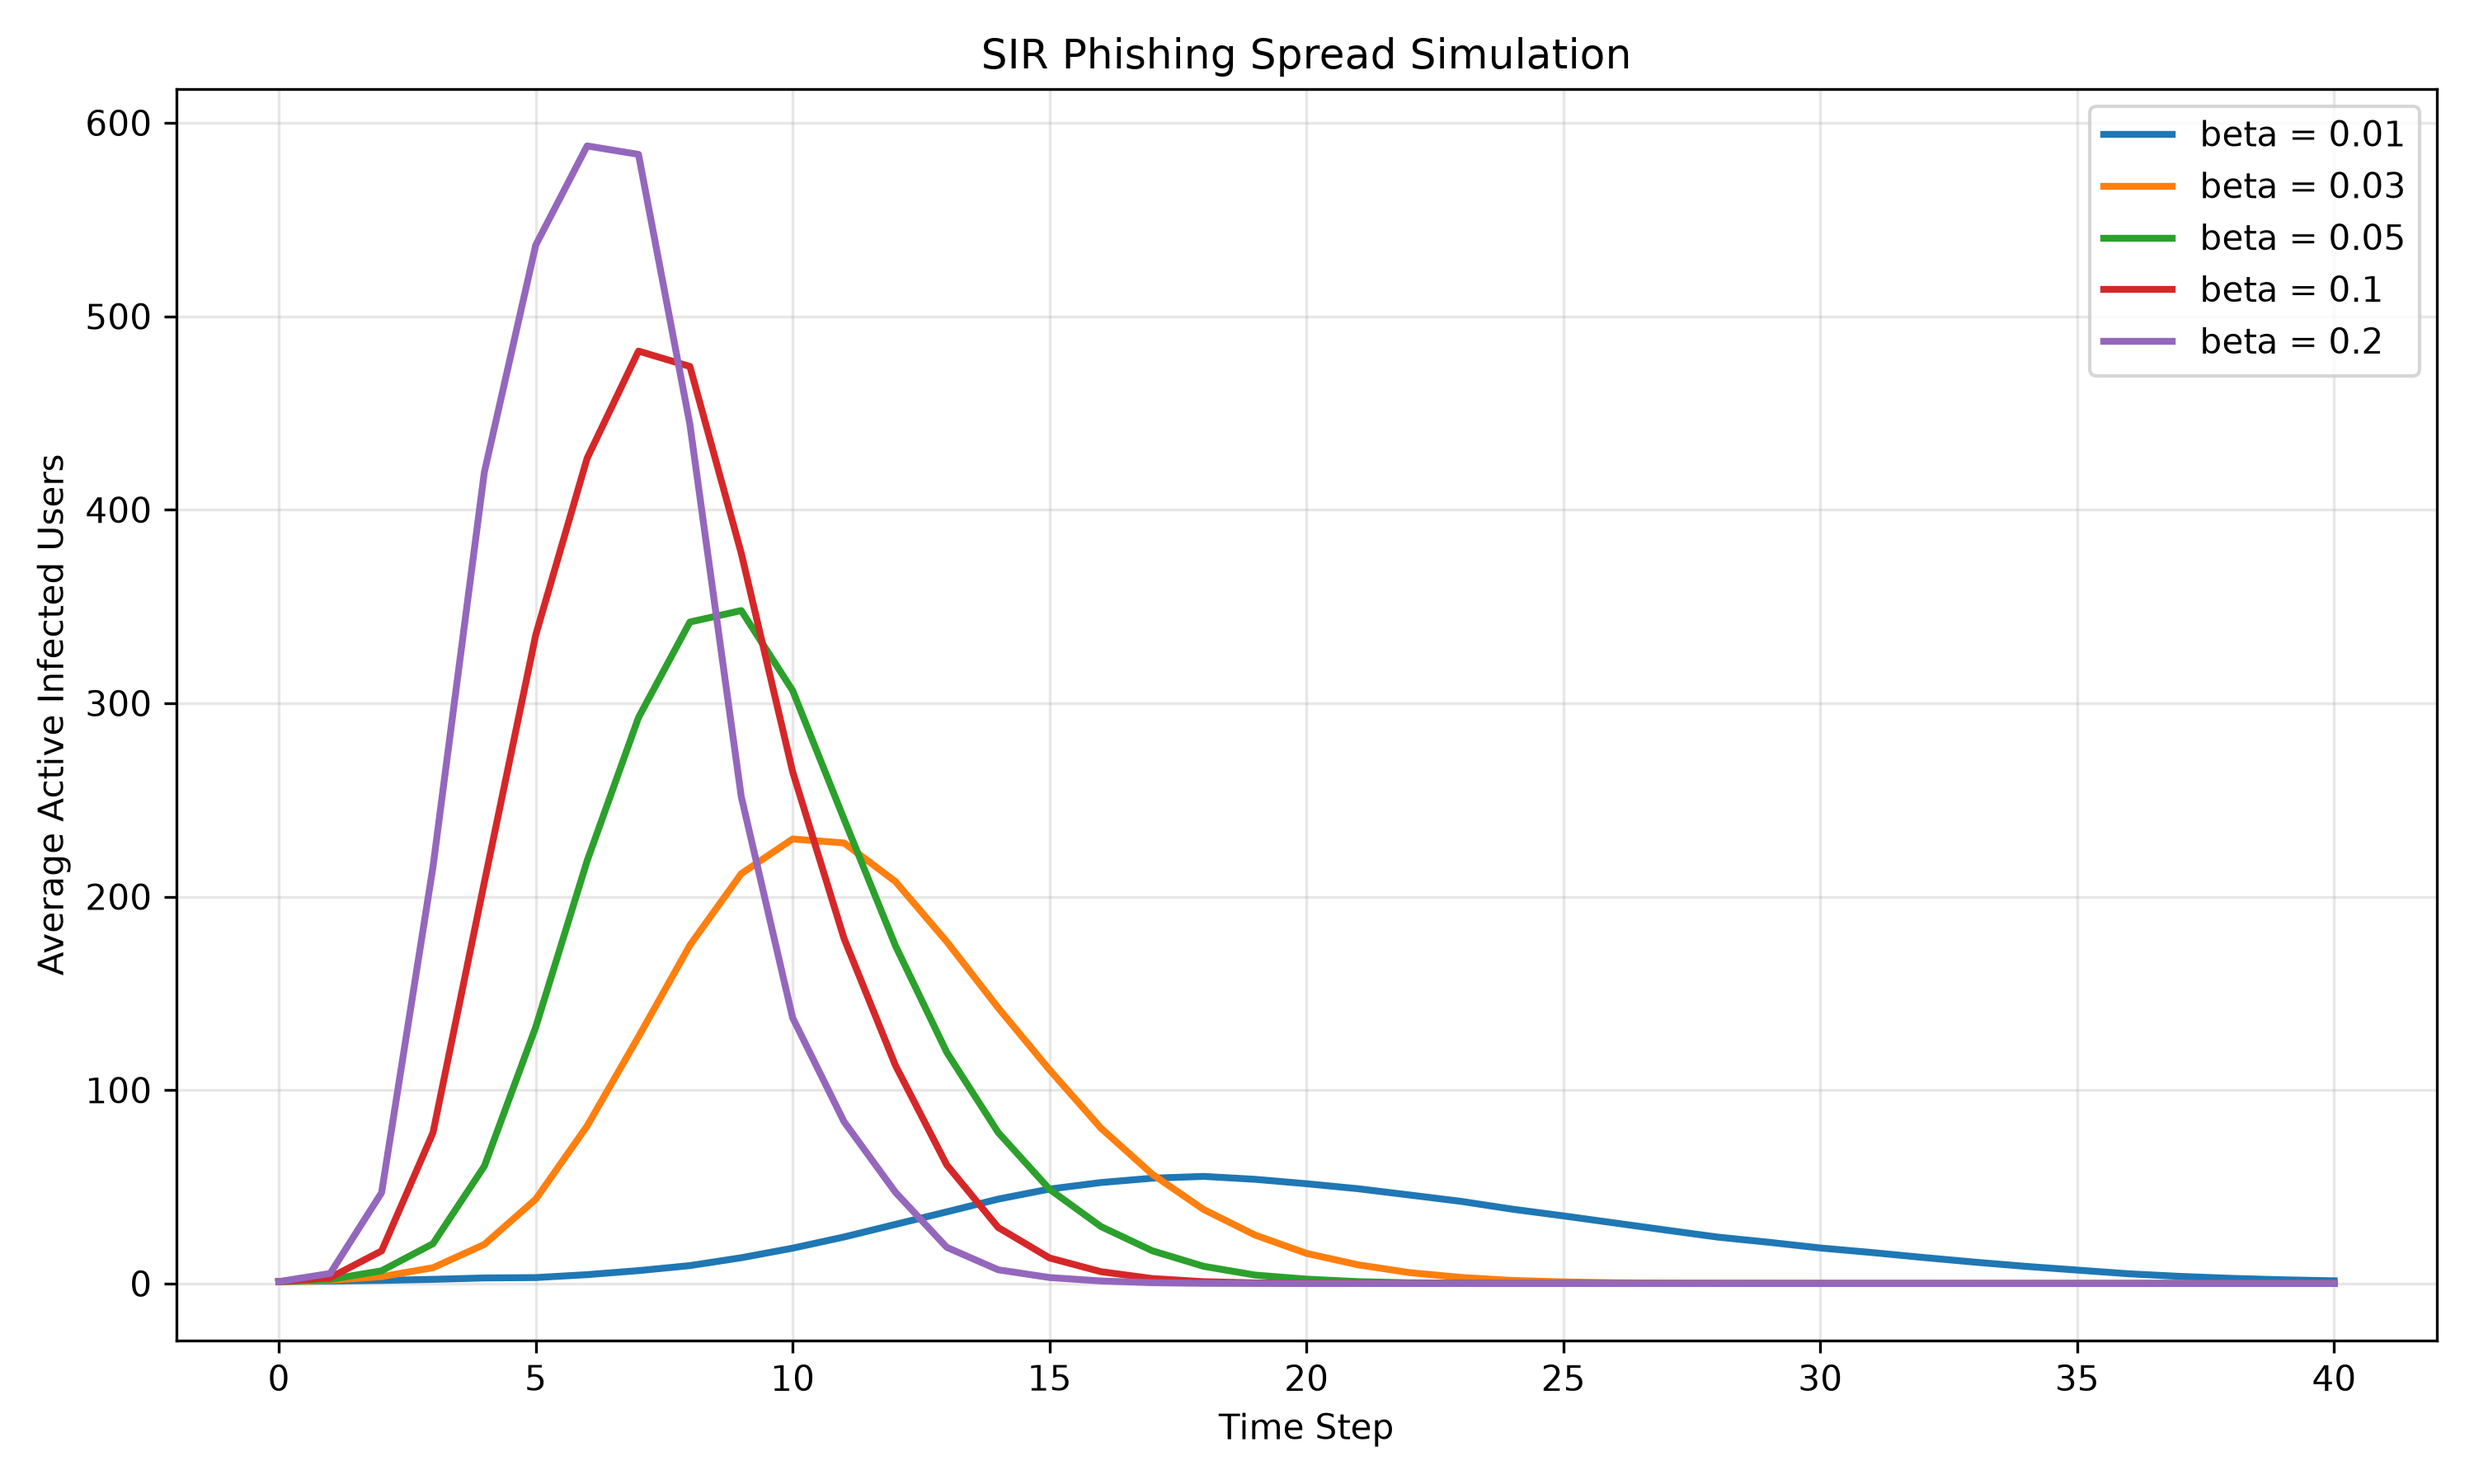
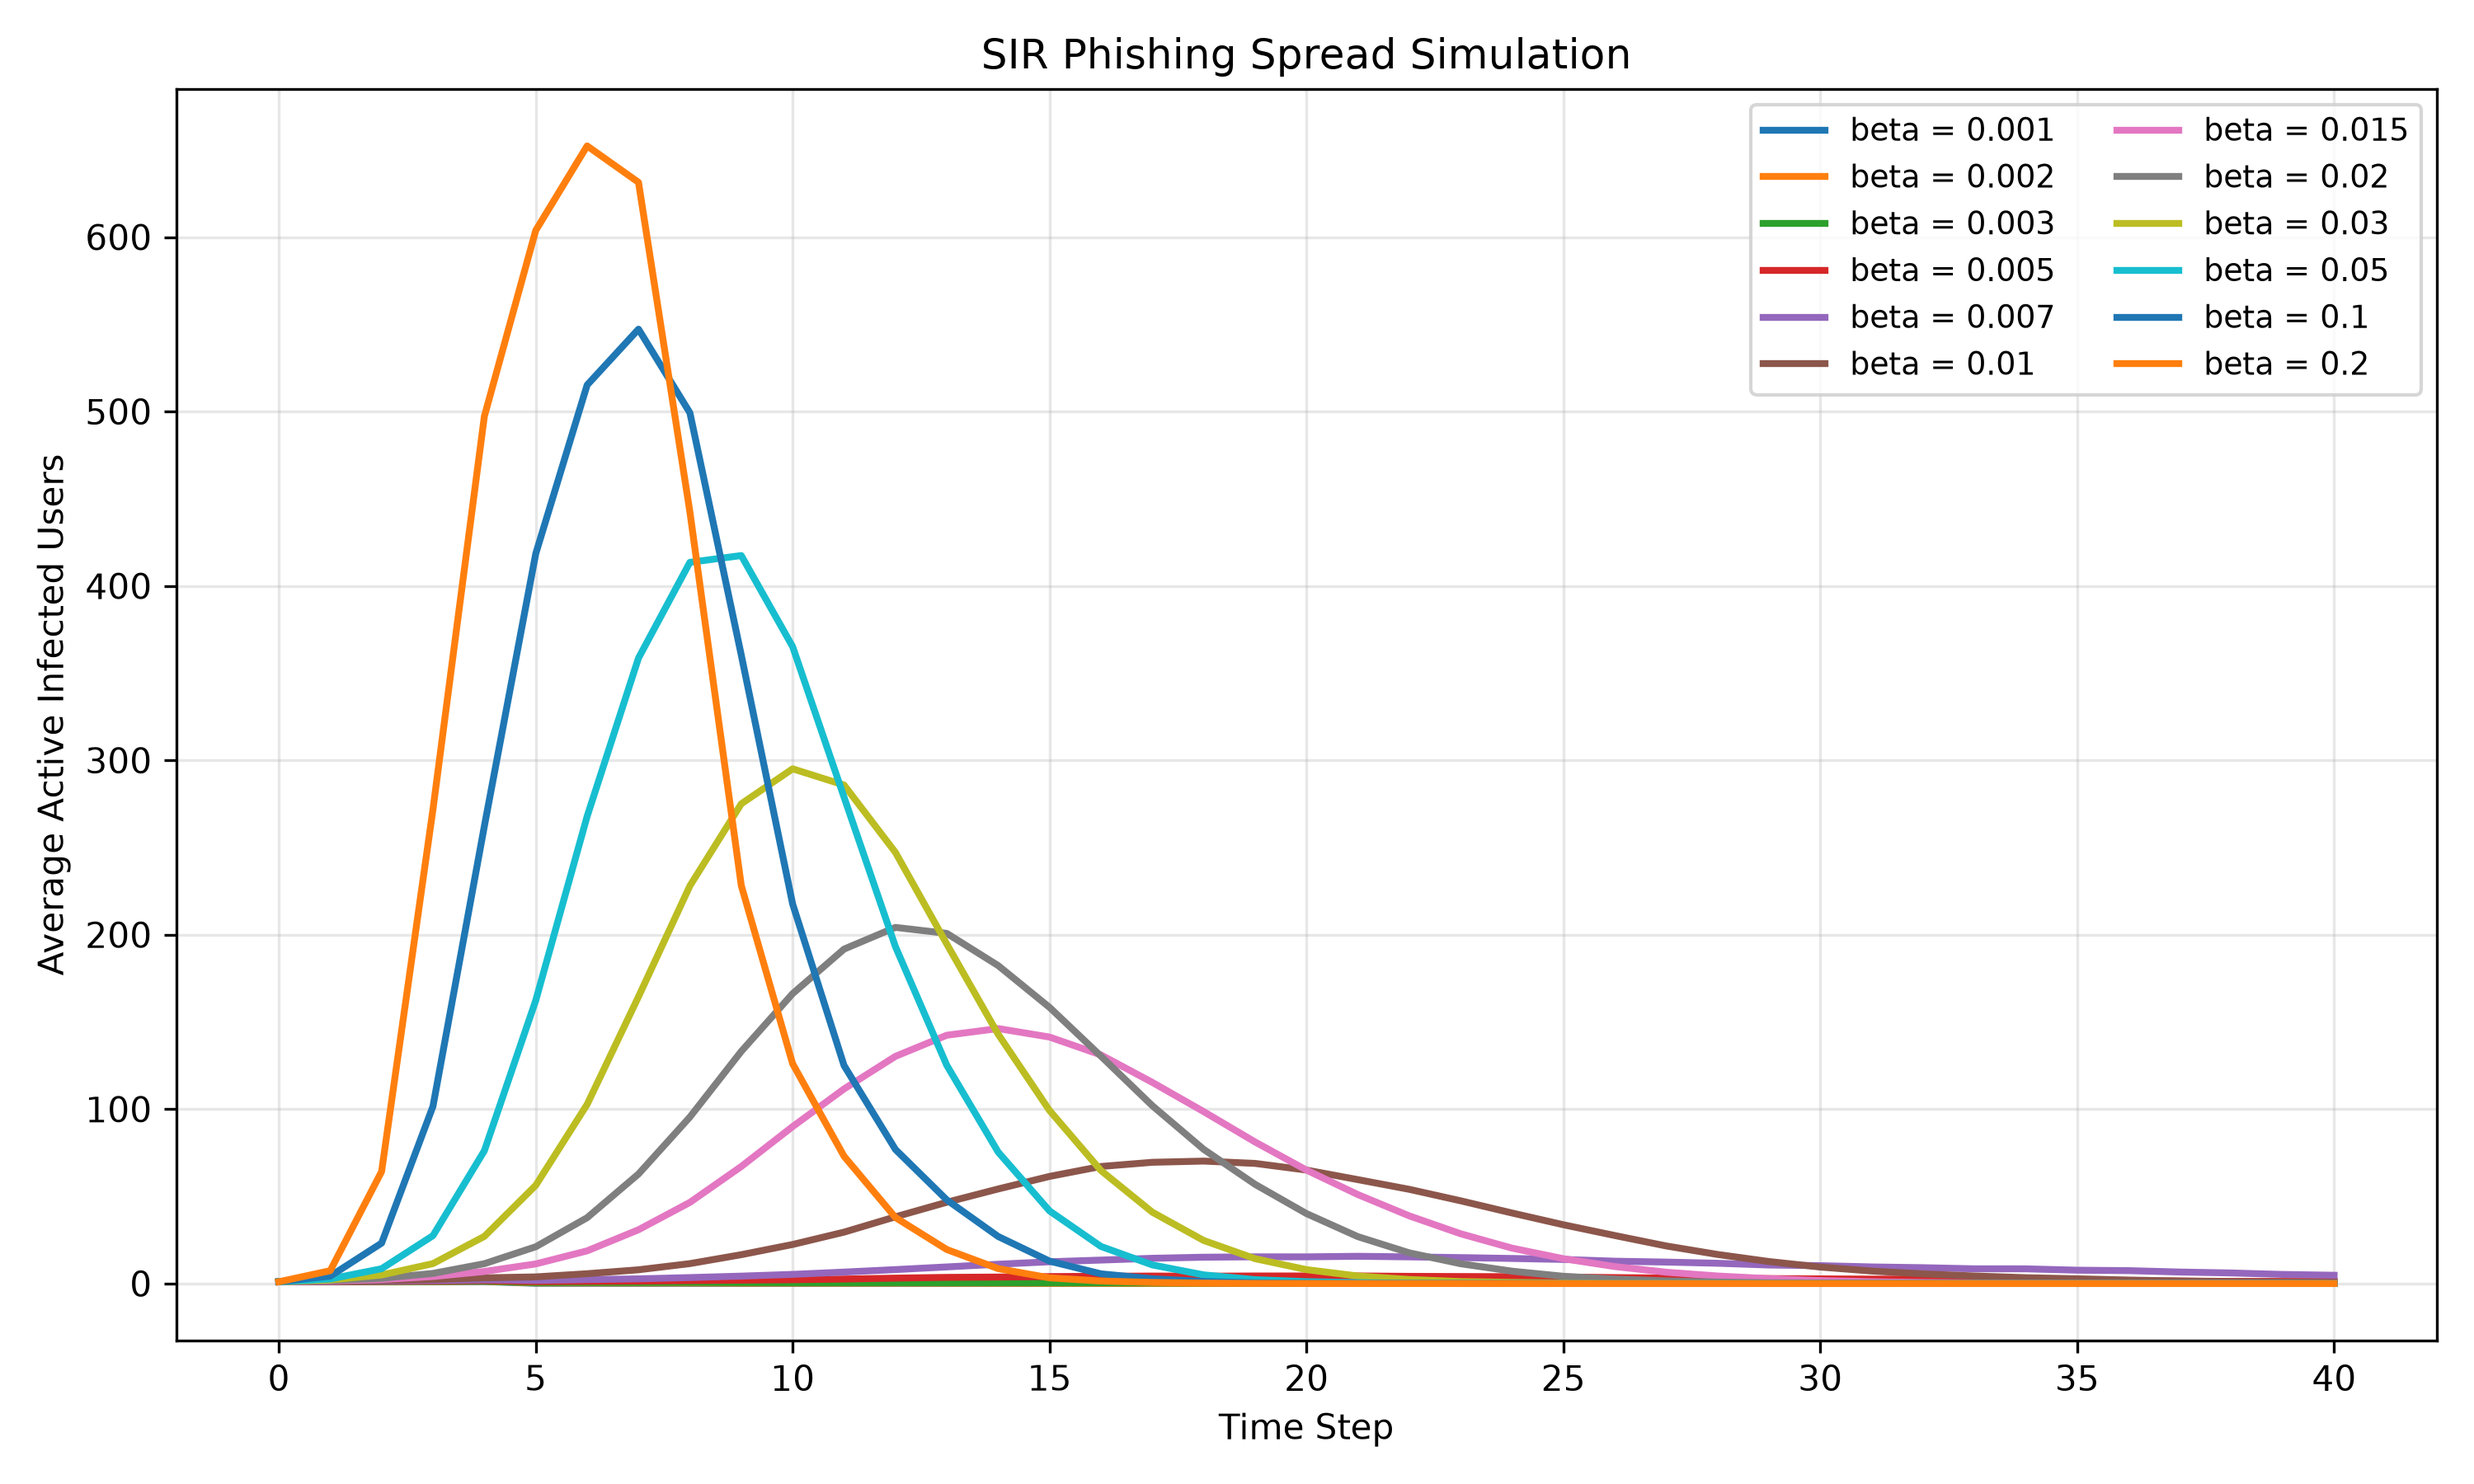
improve sir and sis simulations

diff --git a/src/sir_sis.py b/src/sir_sis.py
@@ -14,7 +14,10 @@ OUTPUT = ROOT / "analysis" / "figures"
 
 
 # Simulation settings
-BETAS = [0.01, 0.03, 0.05, 0.10, 0.20]
+BETAS = [
+    0.001, 0.002, 0.003, 0.005, 0.007,
+    0.01, 0.015, 0.02, 0.03, 0.05, 0.10, 0.20
+]
 TAU = 5
 STEPS = 40
 RUNS = 100
@@ -41,7 +44,7 @@ def simulate(G, model="SIR", beta=0.1, tau=5,
     if not immune.issubset(nodes):
         raise ValueError("Unknown immune nodes")
 
-    available = list(nodes - immune)
+    available = sorted(nodes - immune, key=str)
 
     if not available:
         raise ValueError("No available nodes")
@@ -169,7 +172,7 @@ def run_experiments(G, model):
         }
 
         print(
-            f"beta={beta:.2f} | "
+            f"beta={beta:.3f} | "
             f"mean reached={results[beta]['mean_size']:.1f} | "
             f"large outbreak probability="
             f"{results[beta]['large_outbreak_probability']:.2f}"
@@ -194,7 +197,7 @@ def plot_curves(results, model):
     plt.xlabel("Time Step")
     plt.ylabel("Average Active Infected Users")
     plt.title(f"{model} Phishing Spread Simulation")
-    plt.legend()
+    plt.legend(ncol=2, fontsize=9)
     plt.grid(alpha=0.3)
     plt.tight_layout()
 
@@ -241,20 +244,139 @@ def plot_comparison(sir_results, sis_results, beta=0.10):
     print("Saved:", OUTPUT / "sir_vs_sis.png")
 
 
+# Compare the average number of users reached
+def plot_mean_reached(sir_results, sis_results):
+
+    betas = list(sir_results.keys())
+
+    sir_means = [
+        sir_results[beta]["mean_size"]
+        for beta in betas
+    ]
+
+    sis_means = [
+        sis_results[beta]["mean_size"]
+        for beta in betas
+    ]
+
+    plt.figure(figsize=(10, 6))
+
+    plt.plot(
+        betas,
+        sir_means,
+        marker="o",
+        label="SIR",
+        linewidth=2
+    )
+
+    plt.plot(
+        betas,
+        sis_means,
+        marker="s",
+        label="SIS",
+        linewidth=2
+    )
+
+    plt.xlabel("Transmission Probability (Beta)")
+    plt.ylabel("Mean Unique Users Reached")
+    plt.title("SIR vs SIS: Mean Users Reached")
+    plt.xscale("log")
+    plt.legend()
+    plt.grid(alpha=0.3)
+    plt.tight_layout()
+
+    plt.savefig(
+        OUTPUT / "mean_reached_comparison.png",
+        dpi=300
+    )
+    plt.close()
+
+    print("Saved:", OUTPUT / "mean_reached_comparison.png")
+
+
+# Plot large outbreak probability for different beta values
+def plot_outbreak_probability(sir_results, sis_results):
+
+    betas = list(sir_results.keys())
+
+    sir_probs = [
+        sir_results[beta]["large_outbreak_probability"]
+        for beta in betas
+    ]
+
+    sis_probs = [
+        sis_results[beta]["large_outbreak_probability"]
+        for beta in betas
+    ]
+
+    plt.figure(figsize=(10, 6))
+
+    plt.plot(
+        betas,
+        sir_probs,
+        marker="o",
+        label="SIR",
+        linewidth=2
+    )
+
+    plt.plot(
+        betas,
+        sis_probs,
+        marker="s",
+        linestyle="--",
+        label="SIS",
+        linewidth=2
+    )
+
+    plt.axhline(
+        y=0.5,
+        color="gray",
+        linestyle=":",
+        label="50% outbreak probability"
+    )
+
+    plt.xlabel("Transmission Probability (Beta)")
+    plt.ylabel("Large Outbreak Probability")
+    plt.title("Large Outbreak Probability vs Beta")
+    plt.xscale("log")
+    plt.ylim(0, 1.05)
+    plt.legend()
+    plt.grid(alpha=0.3)
+    plt.tight_layout()
+
+    plt.savefig(
+        OUTPUT / "outbreak_probability.png",
+        dpi=300
+    )
+    plt.close()
+
+    print("Saved:", OUTPUT / "outbreak_probability.png")
+
 # Find an empirical epidemic threshold
 def find_threshold(results, model):
 
-    # Operational definition:
     # At least 50% of runs reach 10% of network users
+    previous_beta = None
 
     for beta, data in results.items():
 
         if data["large_outbreak_probability"] >= 0.5:
-            print(
-                f"{model} empirical large-outbreak threshold "
-                f"(first tested beta): {beta}"
-            )
+
+            if previous_beta is None:
+                print(
+                    f"{model} threshold is at or below "
+                    f"beta={beta:.3f}"
+                )
+            else:
+                print(
+                    f"{model} threshold is between "
+                    f"beta={previous_beta:.3f} "
+                    f"and beta={beta:.3f}"
+                )
+
             return beta
+
+        previous_beta = beta
 
     print(f"{model}: threshold not found in tested betas")
     return None
@@ -283,7 +405,7 @@ def main():
     sir_results = run_experiments(G, "SIR")
     sis_results = run_experiments(G, "SIS")
 
-    # Generate three figures
+    # Generate figures
     plot_curves(sir_results, "SIR")
     plot_curves(sis_results, "SIS")
 
@@ -292,6 +414,9 @@ def main():
         sis_results,
         beta=0.10
     )
+
+    plot_mean_reached(sir_results, sis_results)
+    plot_outbreak_probability(sir_results, sis_results)
 
     # Estimate thresholds
     find_threshold(sir_results, "SIR")
